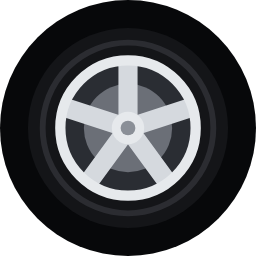
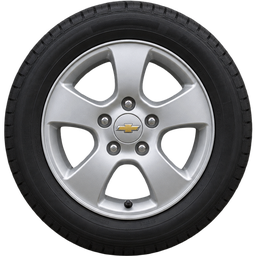
feat(ui): replace placeholder cars and wheel with photo assets

diff --git a/Source/RoadView.cpp b/Source/RoadView.cpp
@@ -19,11 +19,11 @@ namespace
 //   tint.png, rust.png накладки того же размера, что car_black / car_rust: тонировка, ржавчина
 //   plate.png          190×36    номер в углу
 // Положение колёс на кузове — в долях длины машины:
-constexpr float rearWheelX = 0.215f, frontWheelX = 0.8f;
-constexpr float wheelY = 0.074f; // центр колеса над асфальтом
-constexpr float wheelR = 0.087f; // радиус колеса
+constexpr float rearWheelX = 0.222f, frontWheelX = 0.81f;
+constexpr float wheelY = 0.083f; // центр колеса над асфальтом
+constexpr float wheelR = 0.083f; // радиус колеса
 // 2 — крупный пиксель, как в прототипе. Для реалистичных фото поставьте 1.
-constexpr int pixelScale = 2;
+constexpr int pixelScale = 1;
 // Тряска от низа: смещение в пикселях окна при пике низа 0 dBFS и время затухания, с.
 constexpr float shakePx = 8.0f, shakeRelease = 0.12f;
 // =======================================================================
@@ -560,7 +560,7 @@ void RoadView::drawCar (juce::Graphics& g, int i) const
         flame.addColour (0.4, juce::Colour (0xffff8a1f));
         g.setGradientFill (flame);
         juce::Path p;
-        p.addTriangle (0.04f, 0.05f, 0.03f - len, 0.075f, 0.04f, 0.1f);
+        p.addTriangle (0.04f, 0.07f, 0.03f - len, 0.095f, 0.04f, 0.12f);
         g.fillPath (p);
     }
     else if (i == blue)
@@ -604,14 +604,14 @@ void RoadView::drawCar (juce::Graphics& g, int i) const
 
     // Свет фар на асфальте
     {
-        juce::ColourGradient beam (rgba (255, 240, 190, i == white && on ? 0.3f : 0.16f), 0.98f, 0.0f,
+        juce::ColourGradient beam (rgba (255, 240, 190, i == white && on ? 0.3f : 0.16f), 0.95f, 0.0f,
                                    rgba (255, 240, 190, 0.0f), 1.6f, 0.0f, false);
         g.setGradientFill (beam);
         juce::Path p;
-        p.startNewSubPath (0.98f, 0.16f);
+        p.startNewSubPath (0.95f, 0.2f);
         p.lineTo (1.6f, 0.22f);
         p.lineTo (1.6f, -0.02f);
-        p.lineTo (0.98f, 0.1f);
+        p.lineTo (0.95f, 0.16f);
         p.closeSubPath();
         g.fillPath (p);
     }
@@ -676,16 +676,16 @@ void RoadView::drawCar (juce::Graphics& g, int i) const
         g.setGradientFill (juce::ColourGradient (colour, x, y, colour.withAlpha (0.0f), x + r, y, true));
         g.fillEllipse (x - r, y - r, 2.0f * r, 2.0f * r);
     };
-    glow (0.965f, 0.158f, 0.09f, rgba (255, 240, 180, 0.55f));
-    glow (0.03f, 0.188f, 0.06f, rgba (255, 40, 40, 0.5f));
+    glow (0.934f, 0.185f, 0.09f, rgba (255, 240, 180, 0.55f));
+    glow (0.05f, 0.227f, 0.06f, rgba (255, 40, 40, 0.5f));
 
     // Выключенная машина мигает аварийкой
     if (! on && phase < 0.5f)
     {
         g.setColour (juce::Colour (0xffff9d1c));
-        g.fillEllipse (0.975f - 0.018f, 0.15f - 0.018f, 0.036f, 0.036f);
-        g.fillEllipse (0.03f - 0.018f, 0.2f - 0.018f, 0.036f, 0.036f);
-        g.fillEllipse (0.745f - 0.012f, 0.174f - 0.012f, 0.024f, 0.024f);
+        g.fillEllipse (0.934f - 0.018f, 0.185f - 0.018f, 0.036f, 0.036f);
+        g.fillEllipse (0.05f - 0.018f, 0.227f - 0.018f, 0.036f, 0.036f);
+        g.fillEllipse (0.731f - 0.012f, 0.2f - 0.012f, 0.024f, 0.024f);
     }
 }
 

diff --git a/BACKLOG.md b/BACKLOG.md
@@ -14,7 +14,7 @@
 
 ## Подготовка
 
-### ART-01 — Свои фото кузова и колёс `[ ]`
+### ART-01 — Свои фото кузова и колёс `[x]`
 Заменить заглушки в `Assets/` (`car_*.png`, `wheel.png`, при желании фон). Подогнать положение колёс
 (`rearWheelX`, `frontWheelX`, `wheelY`, `wheelR`) и поставить `pixelScale = 1` в начале `Source/RoadView.cpp`.
 Проверка: `build/GentraTest --snapshot кадр.png 60 200 0`.
